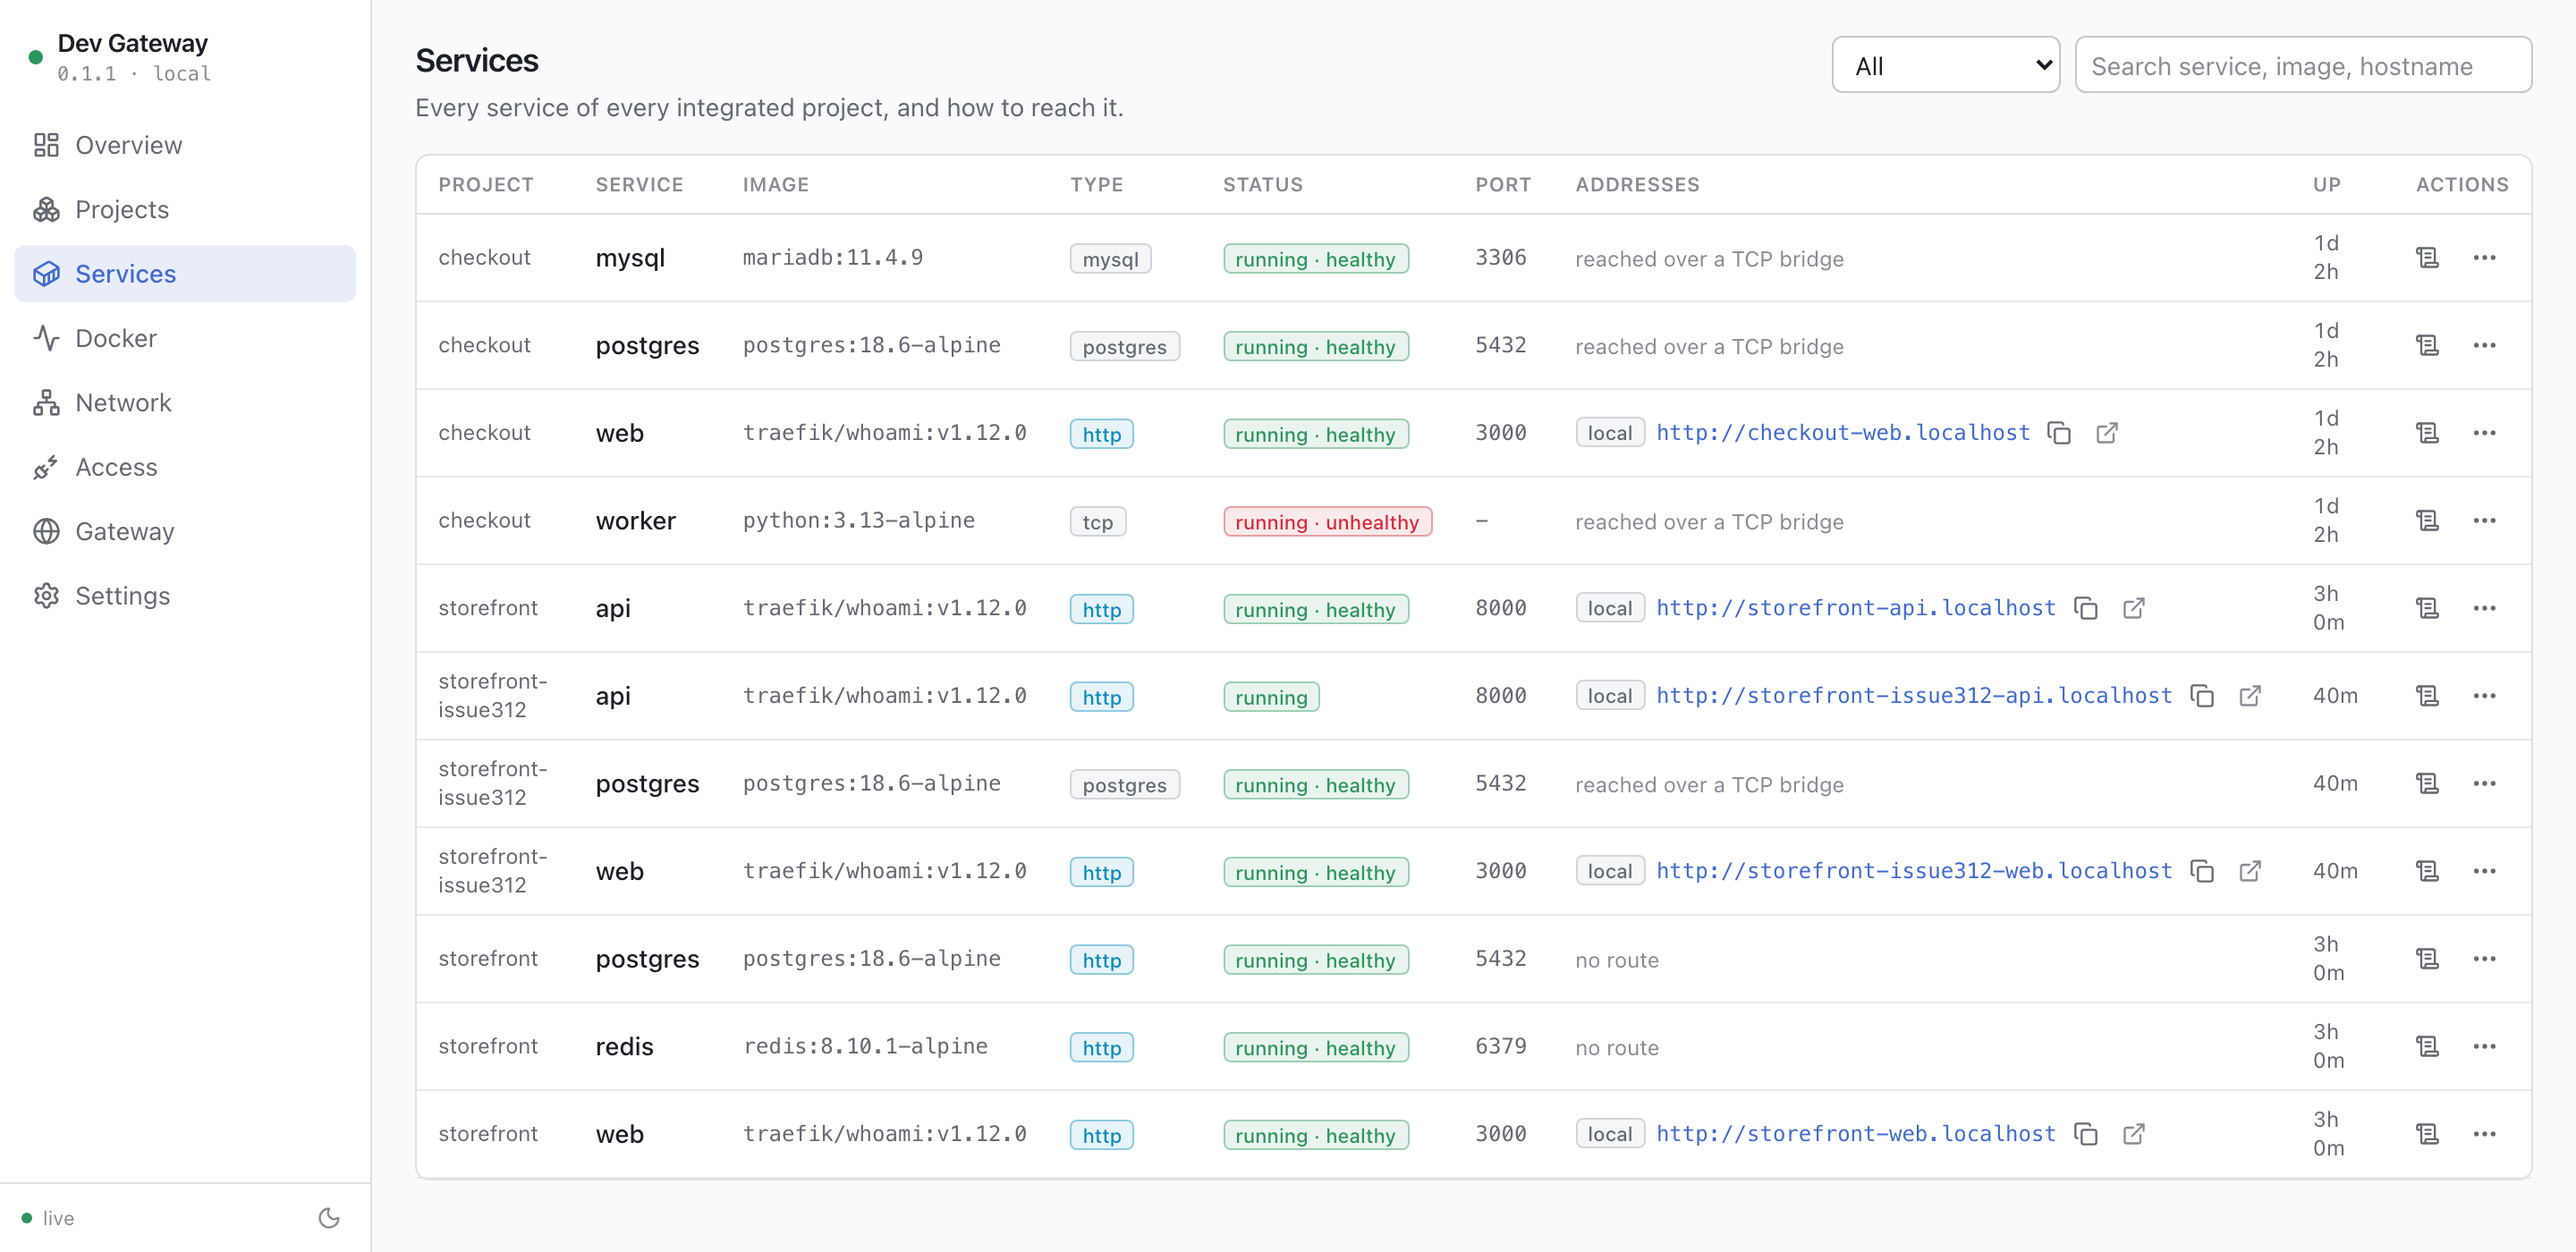
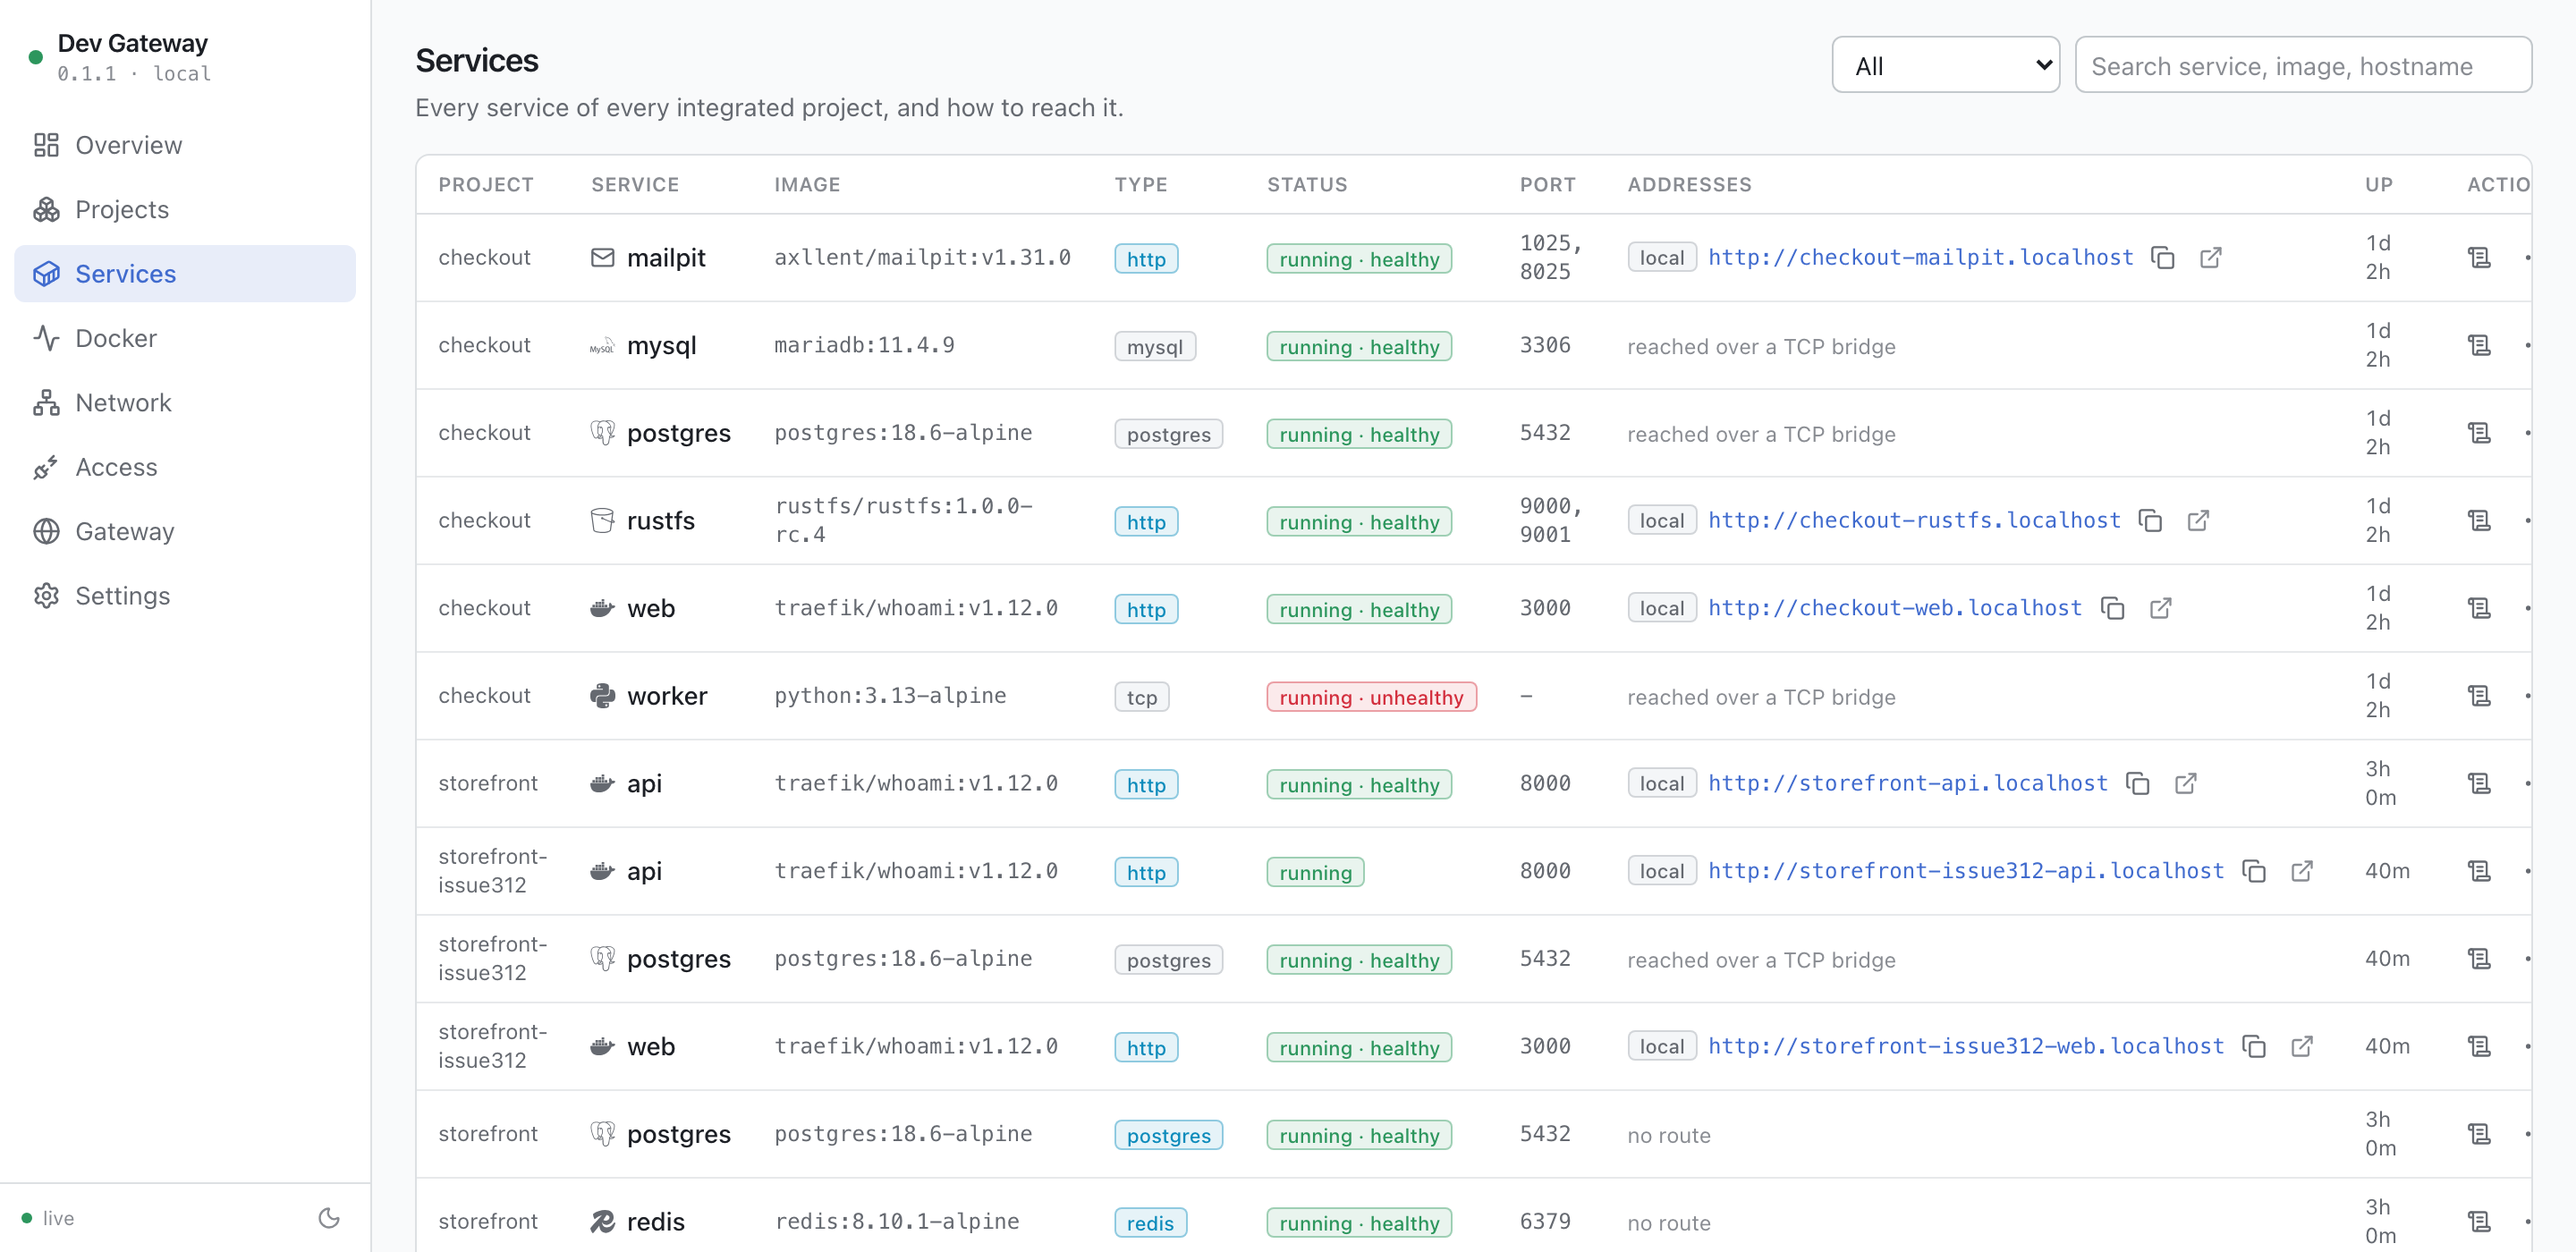
fix(web): stop calling a hostname-routed database an HTTP service
Opting a datastore into TCP routing also sets traefik.enable, and the
container's kind was read from that label alone, so the panel listed
storefront's PostgreSQL as `http` next to its own postgres icon.

This is the third place the same question was asked the wrong way. urlsFor
and the Access page were already fixed to ask whether the container ended up
with a URL rather than whether it carries a label; the kind field was missed.
It now asks the same question, and a test fails the build if it goes back.

The screenshots in the README and docs/web-ui.md are regenerated: they showed
the wrong label, and now carry the technology marks as well.

diff --git a/web/tests/server/inventory.test.ts b/web/tests/server/inventory.test.ts
@@ -121,6 +121,34 @@ describe('URLs', () => {
     ).toEqual([])
   })
 
+  it('calls a database routed by hostname a database, not an HTTP service', async () => {
+    // traefik.enable is set on a TCP-routed datastore too, so keying the kind
+    // off that label alone would label PostgreSQL `http` in the panel.
+    const { client } = fakeDocker({
+      containers: [
+        {
+          id: 'a-pg',
+          name: 'alpha-postgres-1',
+          image: 'postgres:18.6-alpine',
+          networks: ['alpha_default', 'dev-gateway-access'],
+          exposed: [5432],
+          labels: {
+            'com.docker.compose.project': 'alpha',
+            'com.docker.compose.service': 'postgres',
+            'traefik.enable': 'true',
+            'traefik.tcp.routers.alpha-postgres.rule': 'HostSNIRegexp(`^alpha-postgres\\..+$`)',
+          },
+        },
+      ],
+    })
+    const snapshot = await buildSnapshot(client, config)
+    const pg = snapshot.containers.find((c) => c.id === 'a-pg')
+
+    expect(pg?.kind).toBe('postgres')
+    expect(pg?.urls).toEqual([])
+    expect(pg?.traefikEnabled).toBe(true)
+  })
+
   it('still gives one to a service that is routed over both', () => {
     const urls = urlsFor(
       {

diff --git a/web/src/server/core/inventory.ts b/web/src/server/core/inventory.ts
@@ -212,6 +212,8 @@ export function summarise(
   const state = toState(inspect?.State.Status ?? item.State)
   const dirName = basename(workingDir)
 
+  const urls = urlsFor(labels, name, config)
+
   return {
     id: item.Id,
     name,
@@ -233,9 +235,12 @@ export function summarise(
     traefikEnabled: labels[LABELS.traefikEnable] === 'true',
     ports: publishedPorts(inspect, item),
     exposedPorts: exposedPorts(inspect),
-    kind: labels[LABELS.traefikEnable] === 'true' ? 'http' : serviceKind(image),
+    // Opting a database into hostname routing also sets traefik.enable, so
+    // asking that label alone would call PostgreSQL an HTTP service. What
+    // makes something HTTP is ending up with a URL.
+    kind: urls.length > 0 ? 'http' : serviceKind(image),
     tech: resolveServiceTech({ image, service, labels }),
-    urls: urlsFor(labels, name, config),
+    urls,
     mounts: (inspect?.Mounts ?? item.Mounts ?? []).map((mount) => ({
       type: mount.Type,
       name: mount.Name ?? null,

diff --git a/web/src/ui/pages/Projects.tsx b/web/src/ui/pages/Projects.tsx
@@ -158,7 +158,7 @@ function ProjectCard({ project }: { project: Project }) {
                   <span>{service.service ?? service.name}</span>
                 </button>
                 <div className="text-[11px] text-subtle">
-                  {service.traefikEnabled ? 'http' : service.kind}
+                  {service.kind}
                 </div>
               </Td>
               <Td className="font-mono text-xs text-muted">{shortImage(service.image)}</Td>

diff --git a/web/src/ui/pages/Services.tsx b/web/src/ui/pages/Services.tsx
@@ -109,7 +109,7 @@ export function Services() {
                   <Td className="font-mono text-xs text-muted">{shortImage(service.image)}</Td>
                   <Td>
                     <Badge tone={service.traefikEnabled ? 'info' : 'neutral'}>
-                      {service.traefikEnabled ? 'http' : service.kind}
+                      {service.kind}
                     </Badge>
                   </Td>
                   <Td>

diff --git a/CHANGELOG.md b/CHANGELOG.md
@@ -105,6 +105,11 @@ While the version is `0.x`, minor releases may contain breaking changes.
   that exact trap since it was written. Labels are now read out of the template
   and filtered in the shell, and a test fails the build if `hasPrefix` reappears
   in a shipped script.
+- **The panel called a hostname-routed database an HTTP service.** Opting a
+  datastore into TCP routing also sets `traefik.enable`, and the container's
+  kind was read from that label alone, so PostgreSQL was listed as `http`. It
+  is now derived from whether the container actually ended up with a URL, the
+  same question `urls` and the Access page already ask.
 
 ### Security
 
